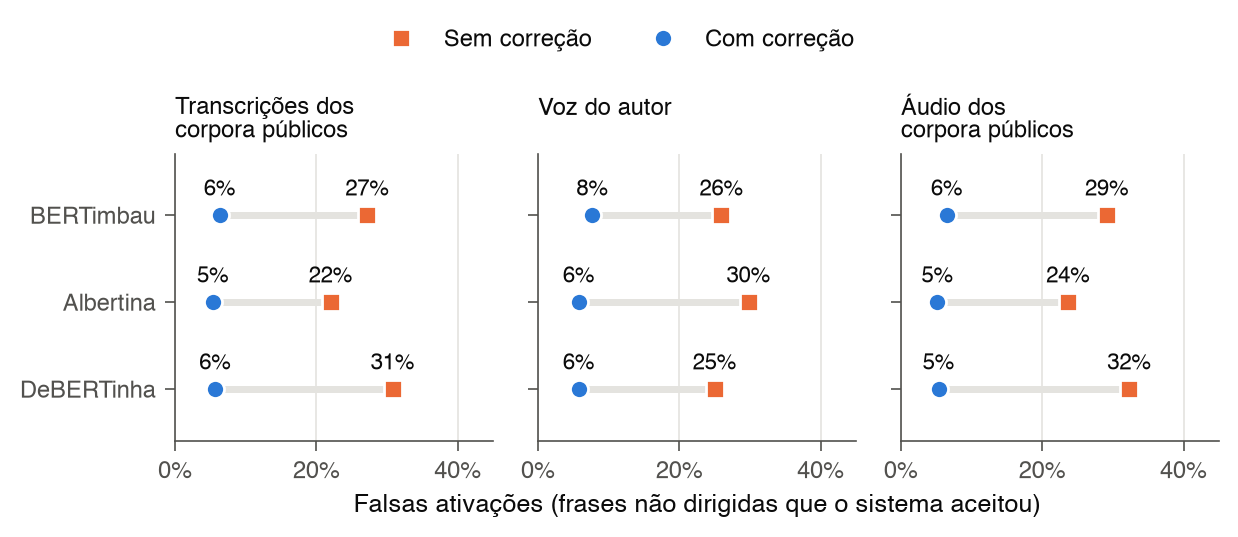
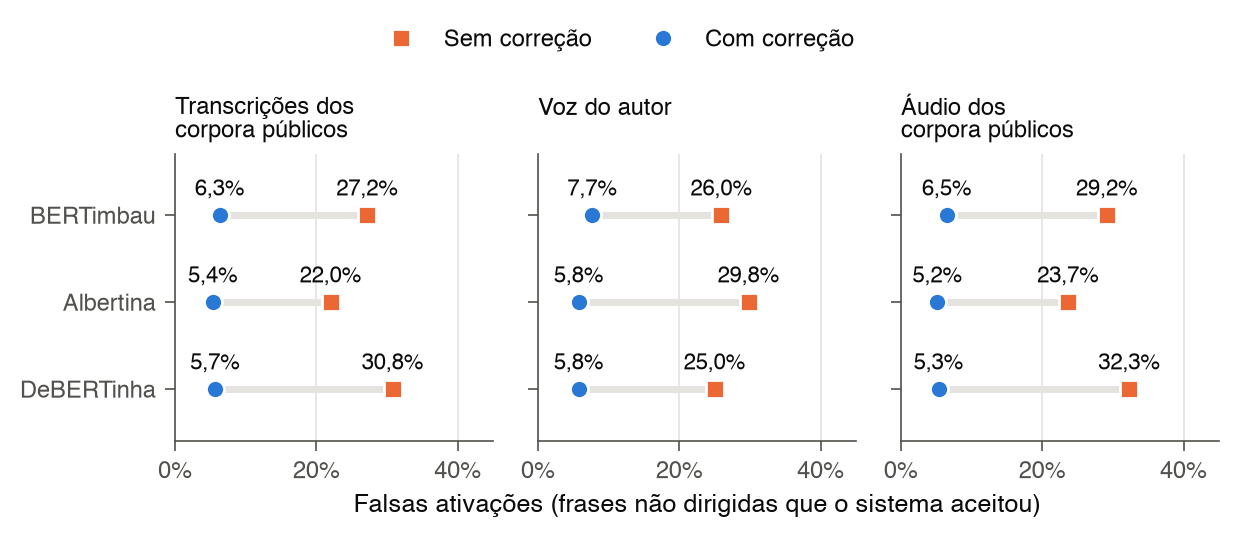
atualiza as figuras

diff --git a/project/scripts/figuras.py b/project/scripts/figuras.py
@@ -390,9 +390,9 @@ def r3_correcao() -> None:
             ax.plot([com, sem], [yy, yy], color=GRID, linewidth=2.5, zorder=1)
             dot(ax, [sem], [yy], "sem", label="Sem correção" if ax is axes[0] and yy == y[0] else None)
             dot(ax, [com], [yy], "com", label="Com correção" if ax is axes[0] and yy == y[0] else None)
-            ax.annotate(pct_text(sem, 0), (sem, yy), xytext=(0, 7), textcoords="offset points", ha="center",
+            ax.annotate(pct_text(sem), (sem, yy), xytext=(0, 7), textcoords="offset points", ha="center",
                         fontsize=8)
-            ax.annotate(pct_text(com, 0), (com, yy), xytext=(0, 7), textcoords="offset points", ha="center",
+            ax.annotate(pct_text(com), (com, yy), xytext=(0, 7), textcoords="offset points", ha="center",
                         fontsize=8)
         ax.set_title(title, fontsize=8.5, loc="left")
         ax.set_xlim(0, 45)
@@ -432,7 +432,7 @@ def r4_falsas_ativacoes_por_tamanho() -> None:
         ax.plot(x, values, color=color, linewidth=2, marker=marker, markersize=6.5, markeredgecolor="white",
                 markeredgewidth=1.0, label=label, zorder=3)
     for i, values, dy in ((0, sem, 8), (0, com, 8), (last, com, 8)):  # os pontos citados no texto
-        ax.annotate(pct_text(values[i], 0), (x[i], values[i]), xytext=(0, dy), textcoords="offset points",
+        ax.annotate(pct_text(values[i]), (x[i], values[i]), xytext=(0, dy), textcoords="offset points",
                     ha="center", fontsize=8)
     ax.set_xticks(x, bins)
     ax.set_xlabel("Tamanho da frase (palavras)")

diff --git a/project/reports/figuras/LEGENDAS.md b/project/reports/figuras/LEGENDAS.md
@@ -93,7 +93,7 @@ conjuntos, de 22-32% para 5-8%.
 - Fontes: `reports/externa_texto/resultado.json` e `reports/pipeline_{gravacoes,publico}/comparacao.json`.
 
 **R4 · `r4_falsas_ativacoes_por_tamanho`.** Com a correção, as falsas ativações caem sobretudo nas frases curtas:
-nas de 2 palavras, de 90% para 9%.
+nas de 2 palavras, de 89,8% para 8,6%.
 - Nas frases longas acontece o contrário: a partir de 11 palavras, com a correção há mais falsas ativações que
   sem ela, e a diferença cresce com o tamanho, de 4,7% contra 1,9% (14-17 palavras) e 7,3% contra 1,9%
   (18-24) até 10,6% contra 0,5% (25-50).
